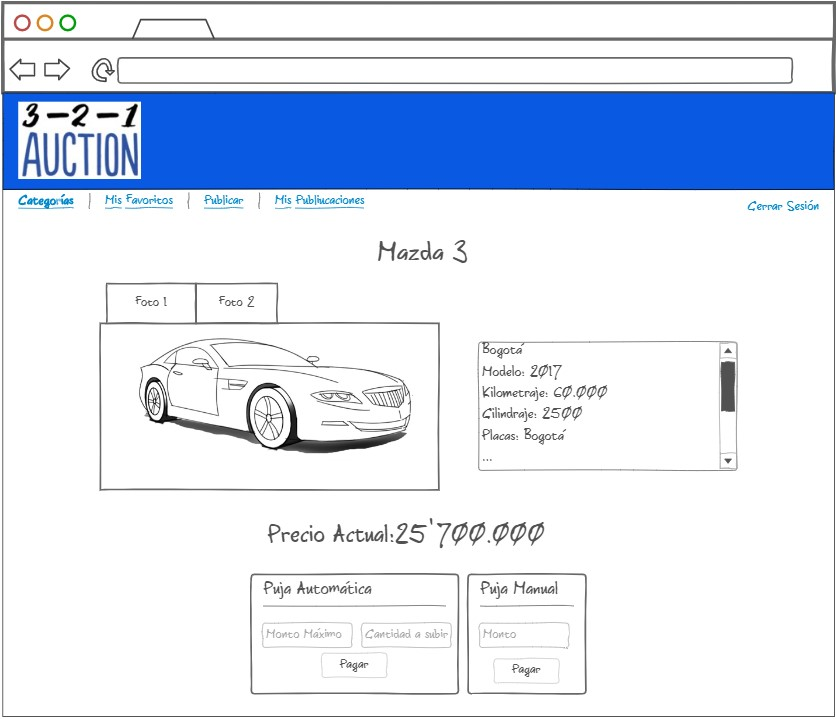
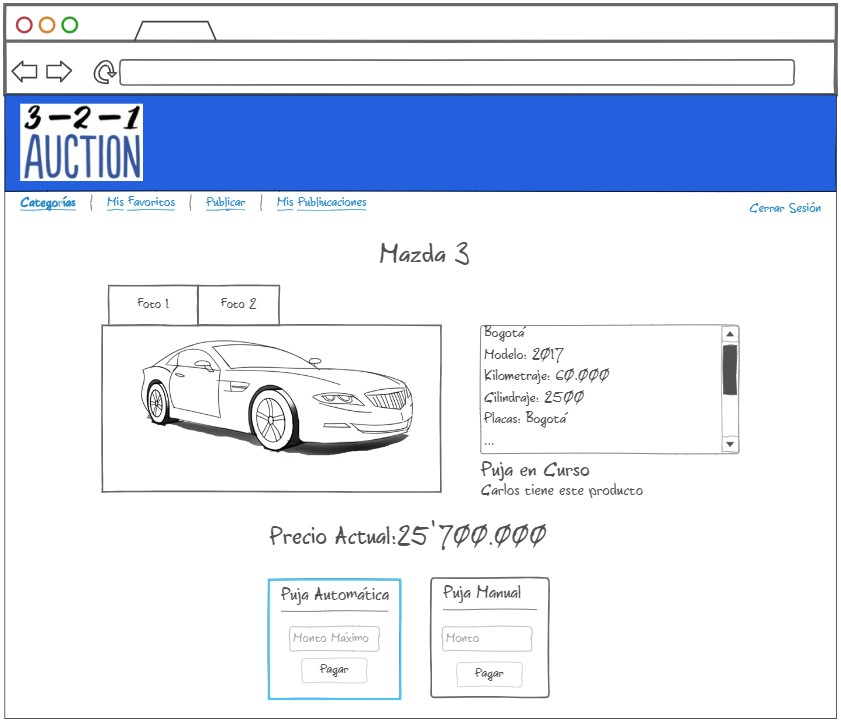
misPublicaciones

diff --git a/README.md b/README.md
@@ -98,6 +98,18 @@ Para satisfacer el requisito de una **interfaz gráfica** agradable y sencilla, 
 
 ![](/img/pujasEnCurso.jpg)
 
+- Funcionalidad para publicar un artículo similar solo si su estado es "En Subasta", y notificación con la misma funcionalidad inmediatamente se relice una puja por dicho artículo:
+
+![](/img/misPublicaciones.jpg)
+
+Los posibles estados de los artículos son:
+
+	- **Activo:** El artículo es visible por todos pero no ha iniciado el timepo de subasta
+
+	- **En Subasta:** El artículo es visible para todos y se puede ofertar por él, está dentro del tiempo de subasta. 
+
+	- **Inactivo:** La subasta del artículo ha finalizado, se puede visualizar el artículo y sus resultados finales únicamente en el histórico del vendedor y el comprador.
+
 - Fomulario para la sugerencia de nuevos artículos:
 
 ![](/img/interes.jpg)
